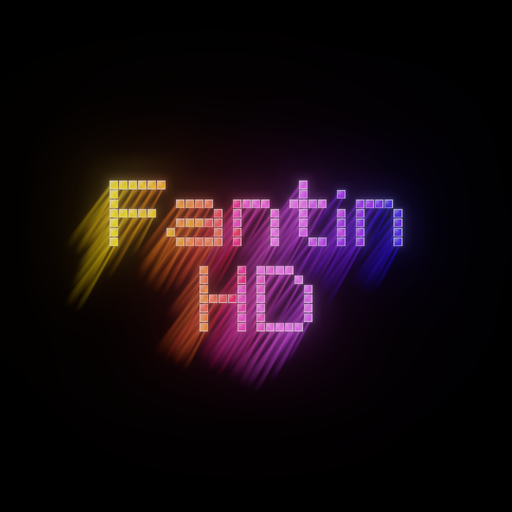
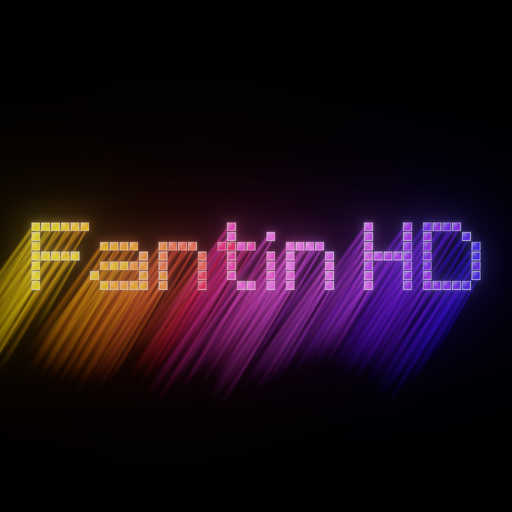
Images Google Play : « Fantin HD » plus grand
Icône et en-tête recadrés sur les lettres, en grand ; les rayons peuvent
sortir du cadre. Icône principale sur une ligne, variante sur deux lignes.

Claude-Session: https://claude.ai/code/session_01AeWBKp6jY6m2cPjRKCQ14V

diff --git a/icones/LISEZMOI.md b/icones/LISEZMOI.md
@@ -4,10 +4,10 @@ Images pour la page développeur Fantin HD sur Google Play. Toutes sont **opaque
 
 | Fichier | Usage Google Play | Format |
 | --- | --- | --- |
-| `icone-developpeur-512.png` | **Icône de développeur** (conseillée) : « Fantin » / « HD » sur deux lignes, plus lisible en petit | PNG 24 bits, 512 × 512 px |
-| `icone-developpeur-512-une-ligne.png` | Variante de l'icône, avec « Fantin HD » sur une ligne | PNG 24 bits, 512 × 512 px |
+| `icone-developpeur-512.png` | **Icône de développeur** : « Fantin HD » en grand sur une ligne | PNG 24 bits, 512 × 512 px |
+| `icone-developpeur-512-deux-lignes.png` | Variante de l'icône : « Fantin » / « HD » sur deux lignes | PNG 24 bits, 512 × 512 px |
 | `image-entete-4096x2304.jpg` | **Image d'en-tête** de la page développeur | JPEG, 4096 × 2304 px, moins de 1 Mo |
 
-Google Play affiche l'icône dans un **rond** : le nom est centré, et toute la lumière (lettres et rayons) reste à l'intérieur du cercle.
+Google Play affiche l'icône dans un **rond** : le nom est centré et en grand, les lettres restent entières dans le cercle ; les rayons peuvent sortir du cadre.
 
 Pour les refaire : outil `outils/voxel-type/`, modèle « Logo Fantin HD », zoom auto « Autour des lettres », format carré (icône) ou 16:9 (en-tête), fond noir.
